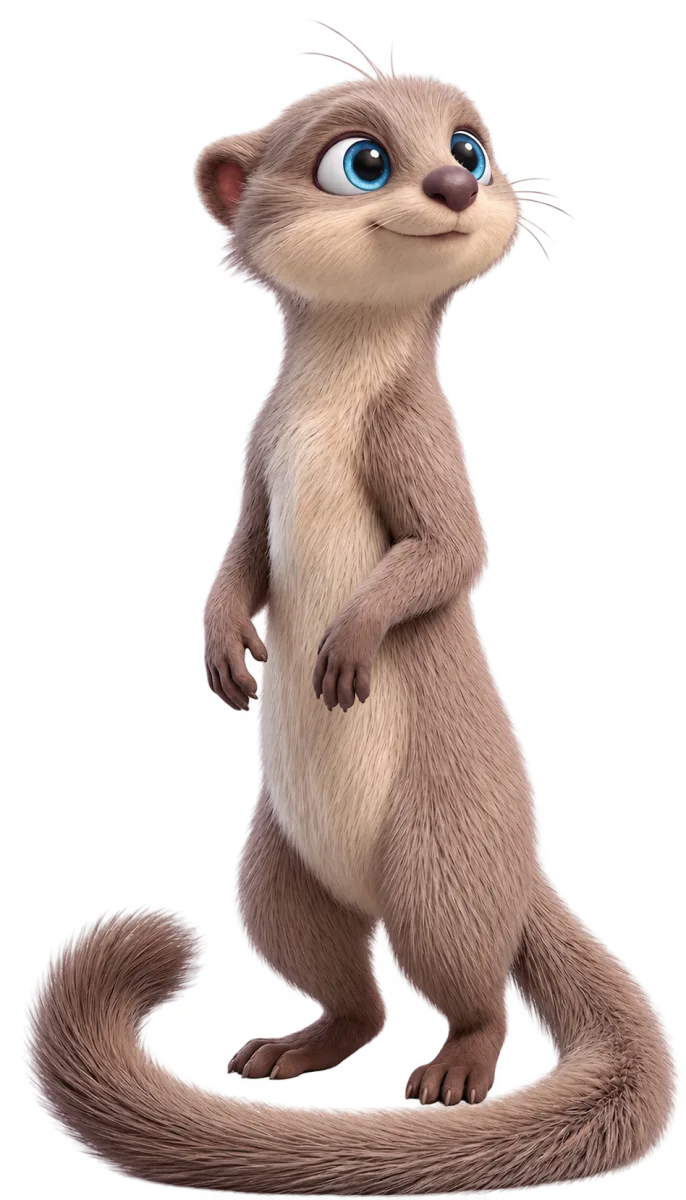
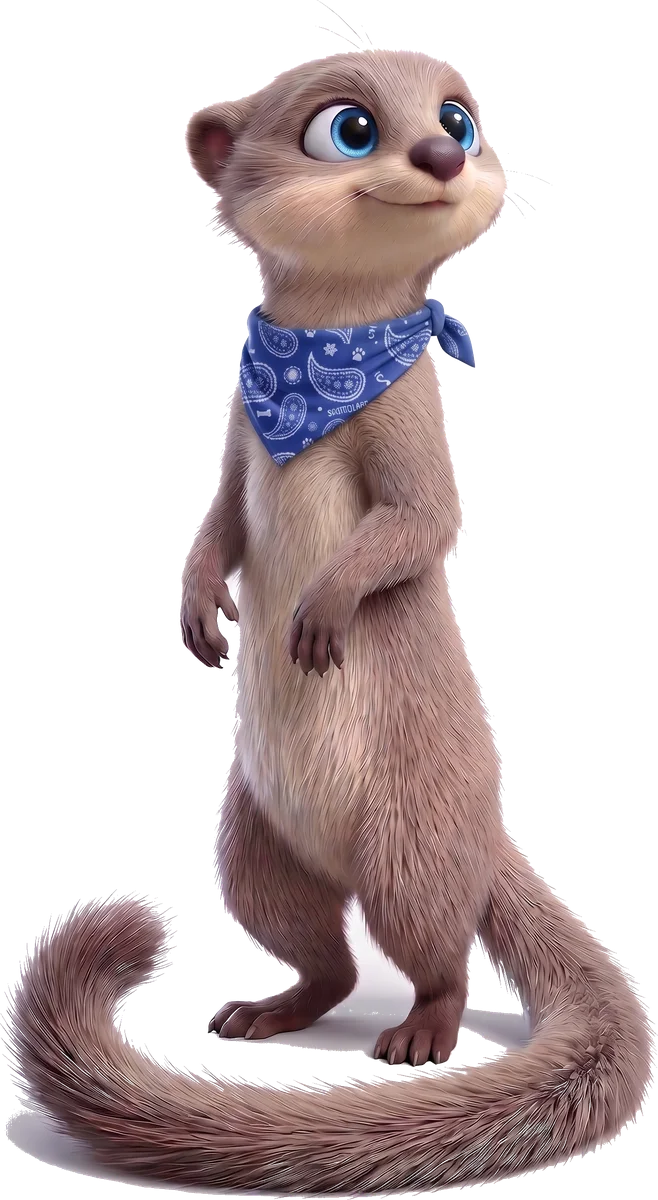
Otto estrena pañuelo, y el primero se guarda al lado
El retrato de presentación pasa a ser el del pañuelo azul. El anterior no se
borra: queda en su propia card como `otto-original.webp`, porque el pañuelo es
una decisión que todavía se puede dar vuelta y el archivo pesa 150 KB.

Salió del mismo comando y sin retoque: el pañuelo es azul saturado y el fondo
gris neutro, así que el recorte lo deja entero — bigotes y punta de la cola
incluidos.

Claude-Session: https://claude.ai/code/session_01VPfU3vkV3Y8BePsLQAcfaP

diff --git a/apps/kit/src/mascots/otto.tsx b/apps/kit/src/mascots/otto.tsx
@@ -20,10 +20,20 @@ export function OttoStory() {
         </div>
       </Section>
 
+      <Section
+        title="El primero"
+        note="El retrato con el que arrancó, sin el pañuelo. Se guarda: el pañuelo es una decisión que todavía se puede dar vuelta."
+      >
+        <div className="flex justify-center rounded-xl border border-line bg-surface p-8">
+          <img src="/mascotas/otto-original.webp" alt="" className="h-48 w-auto" />
+        </div>
+      </Section>
+
       <Section title="Los archivos">
         <div className="flex flex-col overflow-hidden rounded-xl border border-line bg-surface">
           {[
-            ['/mascotas/otto.webp', '686 × 1200 · 150 KB', 'El retrato.'],
+            ['/mascotas/otto.webp', '658 × 1200 · 148 KB', 'El retrato, con el pañuelo.'],
+            ['/mascotas/otto-original.webp', '686 × 1200 · 150 KB', 'El primero, sin pañuelo.'],
             ['/mascotas/otto-anima.webp', '105 × 200 · 390 KB', 'El bucle. 100 cuadros a 12 por segundo.'],
           ].map(([ruta, peso, nota]) => (
             <div key={ruta} className="flex flex-wrap items-center gap-x-5 gap-y-1 border-t border-line px-5 py-4 first:border-t-0">
